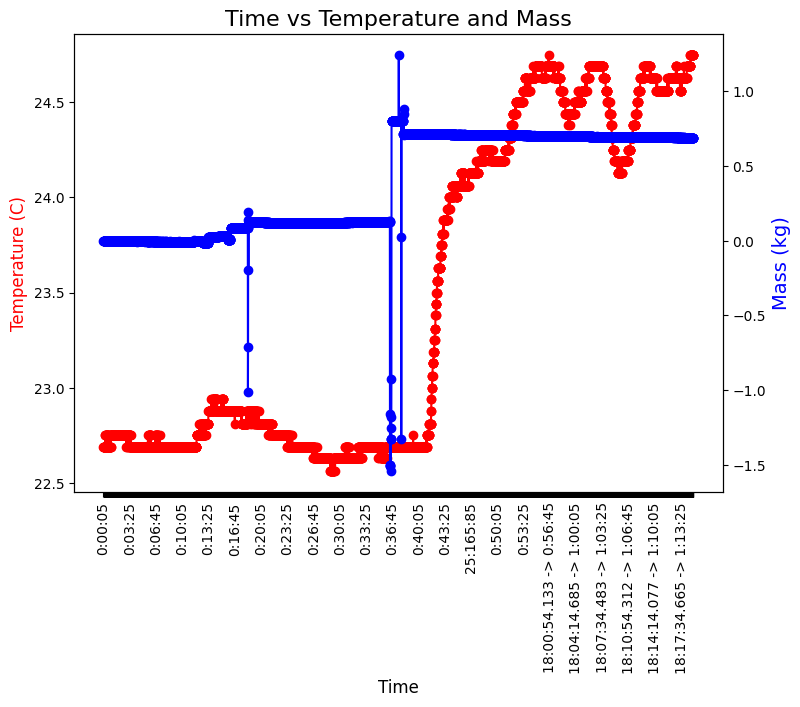
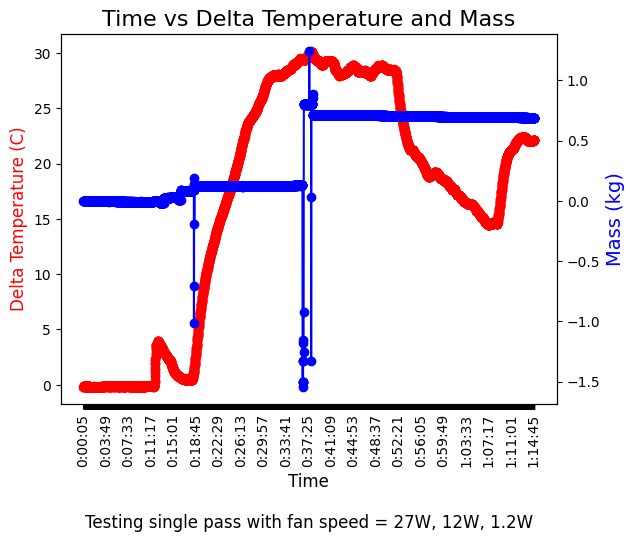
added figure captions

Changed region(s): [[0.0, 0.0, 0.989, 1.0]]

diff --git a/plot_file.py b/plot_file.py
@@ -2,7 +2,8 @@ import matplotlib.pyplot as plt
 
 # adjust file_to_read value if your txt file has a different name
 file_to_read = 'data/10-6-Experiment-complete.txt' # EDIT THIS
-custom_csv_file_name = 'experiment_file.csv'
+caption_text = '' # EDIT THIS
+custom_csv_file_name = 'experiment_file.csv' # EDIT THIS
 
 time_header_idx, mass_header_idx = 0, 1
 
@@ -22,9 +23,9 @@ for row in f:
     row = row.split(',')
     if (len(row) == len(headers) + 1):
         time_val = row[time_header_idx]
-        if (' -> ' in time_val):
-            time_val = time_val.split(' -> ')[1]
-        time.append(row[time_header_idx])
+        if ('->' in time_val):
+            time_val = time_val.split('->')[1].strip()
+        time.append(time_val)
         temp.append(float(row[output_temp_idx]) - float(row[ambient_temp_idx]))
         mass.append(float(row[mass_header_idx]))
 
@@ -32,11 +33,11 @@ for row in f:
 fig, ax = plt.subplots()
 ax.plot(time, temp, color = 'red', marker="o", label = 'Temperature Data')
   
-ax.set_xlabel('Time', fontsize = 12)
+ax.set_xlabel('Time' + "\n\n" + caption_text, fontsize = 12)
 ax.set_ylabel('Delta Temperature (C)', color="red", fontsize = 12)
 
 # adjust this spacing if x axis labels are too cluttered or sparse
-spacing = 200
+spacing = len(time) // 20
 plt.xticks(rotation=90)
 visible = ax.xaxis.get_ticklabels()[::spacing]
 for label in ax.xaxis.get_ticklabels():
@@ -49,7 +50,8 @@ ax2.plot(time, mass, color="blue", marker="o")
 ax2.set_ylabel("Mass (kg)", color="blue", fontsize=14)
 
 plt.title('Time vs Delta Temperature and Mass', fontsize = 16)
-plt.show()
+
+# plt.show()
 
 # save the plot as a file
 fig.savefig('timeVsTempAndMass.png',
